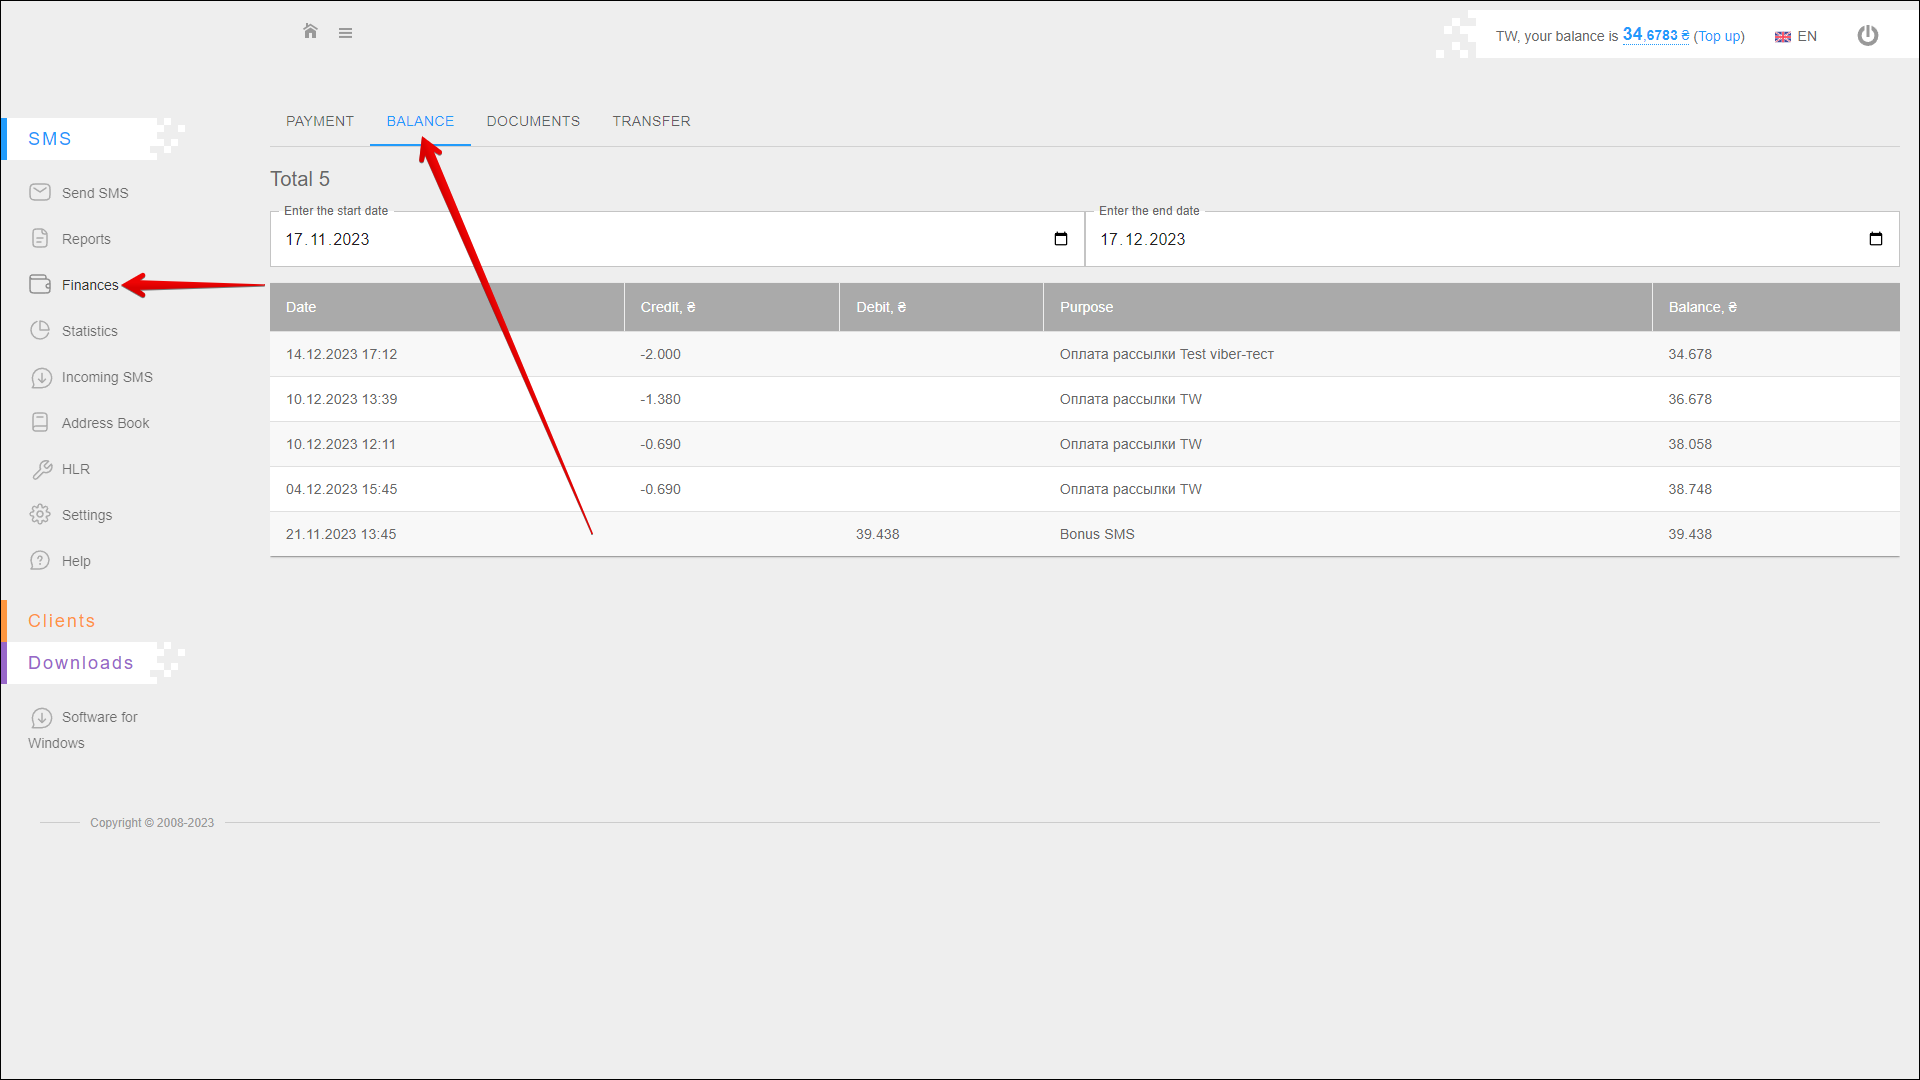
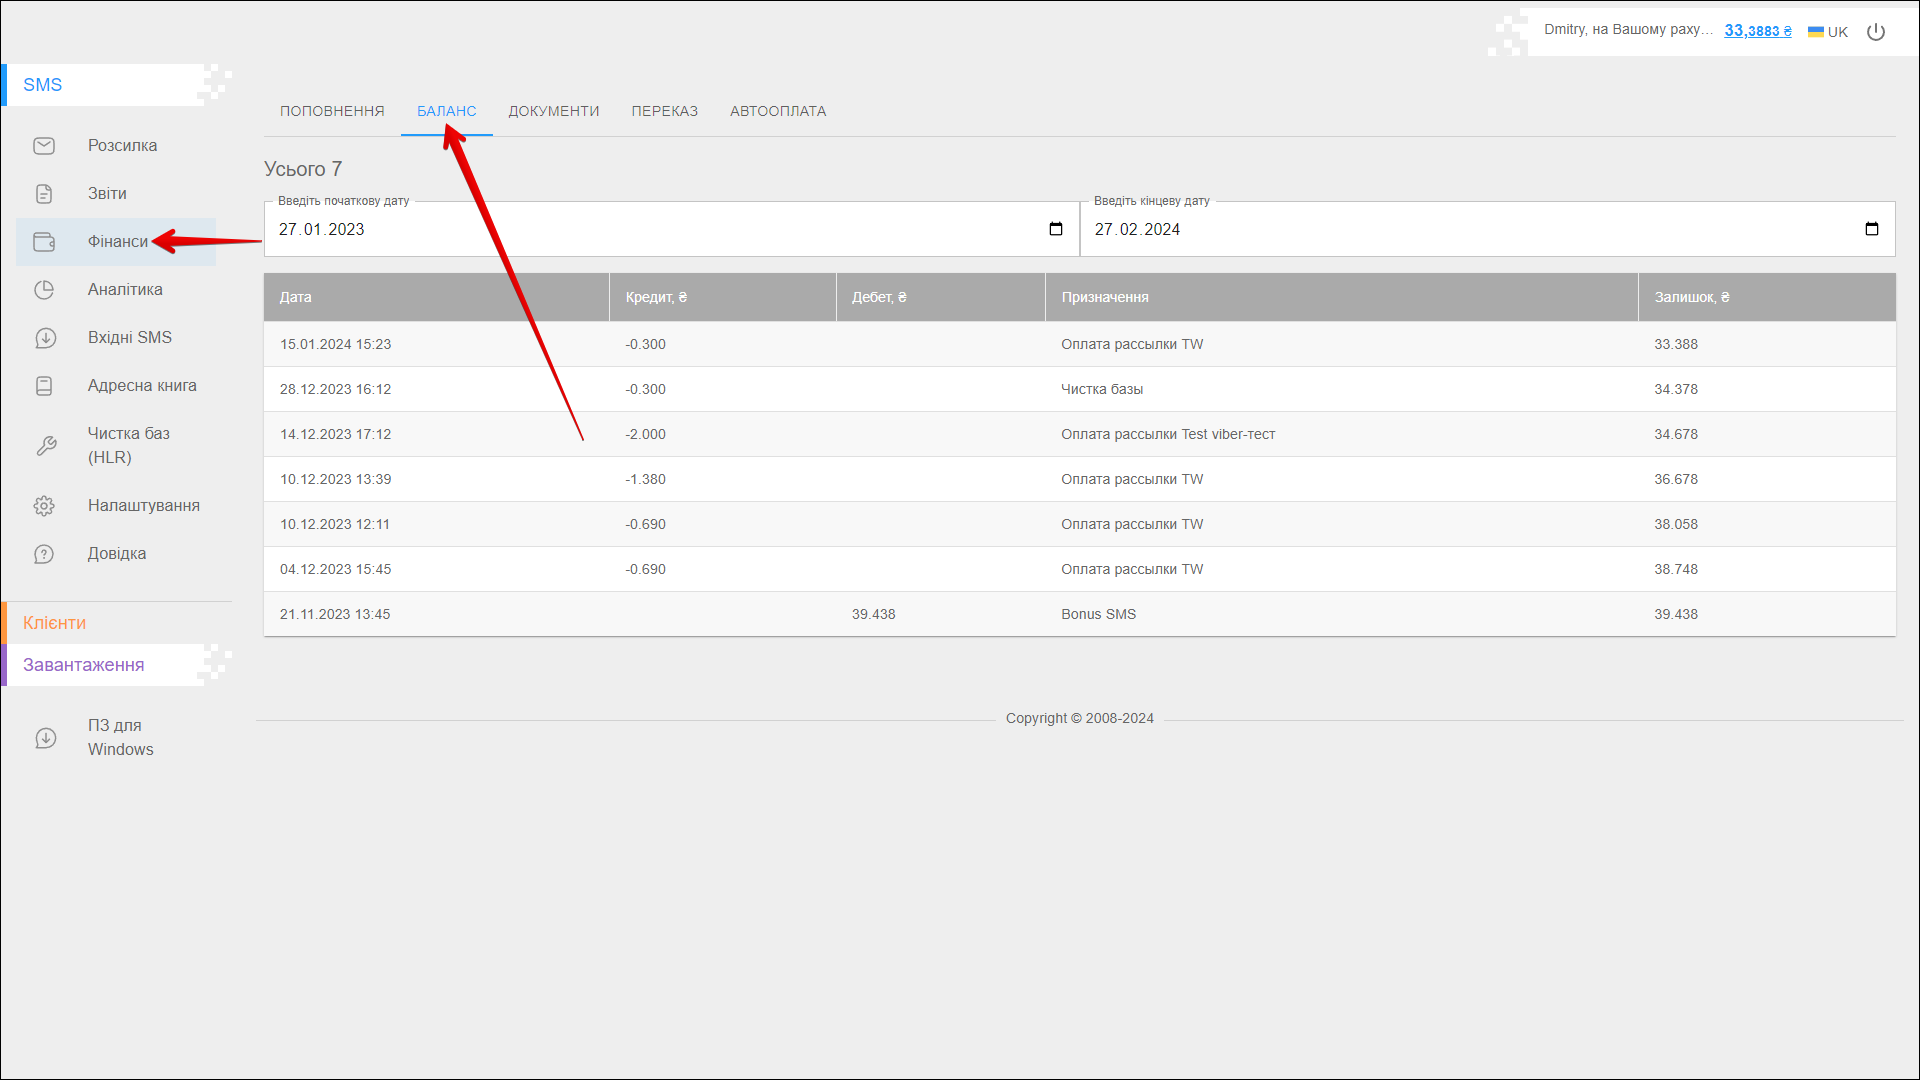
+ SMS-Фінанси-Баланс

diff --git a/i18n/uk/docusaurus-plugin-content-docs/current/instruction/sms/finances/balance.md b/i18n/uk/docusaurus-plugin-content-docs/current/instruction/sms/finances/balance.md
@@ -4,3 +4,35 @@ title: Баланс
 slug: /balance
 ---
 
+На цій вкладці ви можете переглянути історію транзакцій балансу гаманця за певний період.
+
+Щоб відкрити цю вкладку, виберіть **SMS** → **Фінанси** у боковому меню та оберіть вкладку **БАЛАНС**.
+
+![image1](/img/uk/sms_finances_balance/image1.png)
+
+## Вибір періоду
+
+Щоб вибрати **Період**, за який ви хочете відображати історію транзакцій, виконайте наведені нижче дії:
+
+|  №  | Дія |
+| :-: | --- |
+| 1 | Введіть **Початкову дату**. Ви можете ввести дату вручну або вибрати її в календарі, для цього натисніть на іконку **Календар** в правій частині поля |
+| 2 | Введіть **Кінцеву дату**. Ви можете ввести дату вручну або вибрати її в календарі, для цього натисніть на іконку **Календар** в правій частині поля |
+
+Після вибору дати сторінка оновиться, щоб відобразити історію транзакцій за вказаний період.
+
+![image2](/img/uk/sms_finances_balance/image2.png)
+
+## Список транзакцій
+
+Вся історія транзакцій балансу гаманця розташована в таблиці у відокремлених колонках:
+
+![image3](/img/uk/sms_finances_balance/image3.png)
+
+|  №  | Опис |
+| :-: | ---- |
+| 1 | **Дата** - дата і час транзакції (відправлення повідомлення або поповнення балансу) |
+| 2 | **Кредит, ₴** - сума витрат (в гривнях) |
+| 3 | **Дебет, ₴** - сума поповнення (в гривнях) |
+| 4 | **Призначення** - призначення транзакції |
+| 5 | **Залишок, ₴** - залишок на балансі після транзакції (в гривнях) |
